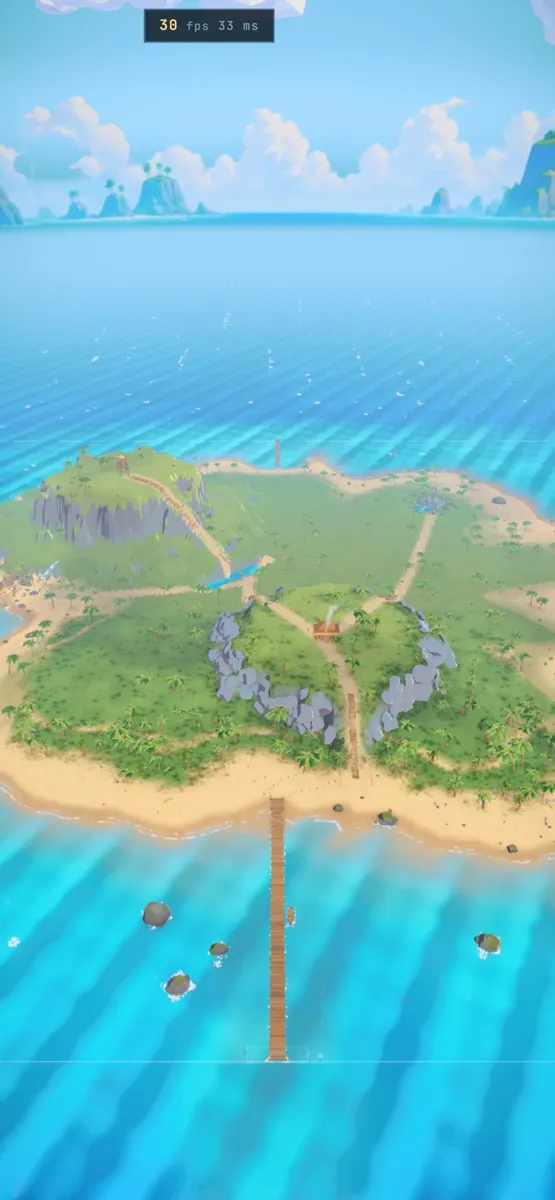
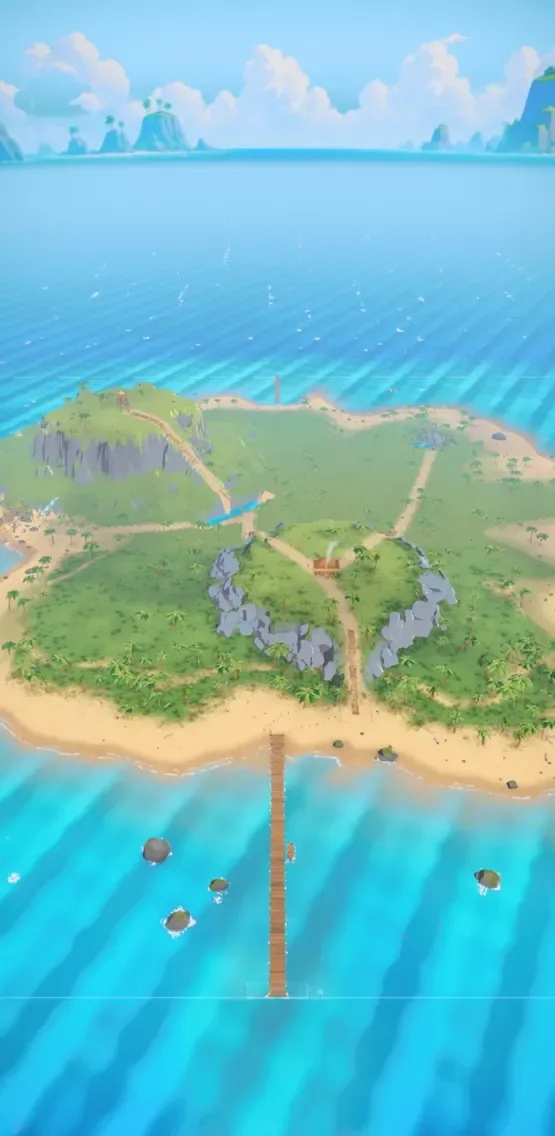
fix(site): share card says any coding agent
MS33's last two items (E473, G332): og.jpg re-lettered 'Build it
with Claude or any coding agent' in the site font, over the same
in-engine Sky Reach; the journey's Driftwood aerial trimmed of its
fps readout.

Claude-Session: https://claude.ai/code/session_01WDQS4KJMspuEQ6kHGSrLAg

Assisted-by: Claude Code:claude-opus-5-5

diff --git a/docs/plans/MARKETING-SITE.md b/docs/plans/MARKETING-SITE.md
@@ -123,7 +123,7 @@ wildshard`), the door becomes *install the skill*; when the API exists, *request
 | MS30 | ✅ **/build: what building a shard is like** (2026-10-10; 10.1 phone screens: an example session, the six steps in full, Thin Ice's five stages, the template's folders, five budgets, the tools as in use / draft / next, ending at the waitlist) (saga 2) — the six steps in full; Thin Ice's whole five-stage chain (line, pitch, style, map, first-person view) that the home page cut to two; the template shard; "Claude or any coding agent", with Opus 5.5 best today; budgets and validation in plain words; shards that grow (co-edit, renovate, title travels with you); founding authors and the claim map, ending at the waitlist | the page live, phone and desktop | marketing-site agent |
 | MS31 | ✅ **/mmo: how the MMO works, for the curious and for authors** (2026-10-10; 10.4 phone screens: the four-card pipeline, the shardfile and its json, budgets first, the sandbox, the 3 × 3 grid to scale in SVG, four layers, multiplayer as planned, ownership, the honest road; every block names its sources in a COPY.md note) (saga 3) — the shardfile from `docs/SHARDFILE.md` and `docs/api/SHARDFILE.md` (the full `shard.json`, what a package holds and never holds, budget-first admission, the script sandbox), the grid (500 m cells, seams, seamless travel), the engine and the SDK layers, ownership and pricing (MMO-REQUIREMENTS O9 / O10), server authority and multiplayer as planned, and the honest road (each plan's state) | the page live; every claim traced to a doc or the code | marketing-site agent |
 | MS32 | ✅ **One site, four pages** (2026-10-10) — a shared top bar on every page (Play · Build · The MMO · Press, Play now ↗), a "More →" link from each home section to its page, the footer links, the sitemap; the build checks every page's copy as it does today | the four pages linked both ways, live | marketing-site agent |
-| MS33 | ◐ **Image-model pictures say so** (SHARD-PLATFORM G332; Jake 2026-10-11: *"We actually want to remove as much mockups and gpt image ai slop from the game lol also from the marketing website"*, then on the site: *"they just need a little banner inside the image that's like a GPT mockup. Just GPT mockup is enough"*) — ✅ all 14 image-model pictures (the grid and frontier paintings, the six coming worlds, Thin Ice's four, journey 6) carry a small see-through "GPT mockup" banner inside the picture, one COPY entry (`Mockup · tag`); ⬜ `hero-driftwood-aerial` (journey 7) recaptured without its fps readout; ⬜ `og.jpg` re-lettered ("Build it with Claude or any coding agent") | every image-model picture labelled in the picture; every picture of the game a capture | marketing-site agent |
+| MS33 | ✅ **Image-model pictures say so** (SHARD-PLATFORM G332; Jake 2026-10-11: *"We actually want to remove as much mockups and gpt image ai slop from the game lol also from the marketing website"*, then on the site: *"they just need a little banner inside the image that's like a GPT mockup. Just GPT mockup is enough"*) — ✅ all 14 image-model pictures (the grid and frontier paintings, the six coming worlds, Thin Ice's four, journey 6) carry a small see-through "GPT mockup" banner inside the picture, one COPY entry (`Mockup · tag`); ✅ `hero-driftwood-aerial` (journey 7) trimmed of its fps readout; ✅ `og.jpg` re-lettered in the site font ("Build it with Claude or any coding agent"), its in-engine Sky Reach kept | every image-model picture labelled in the picture; every picture of the game a capture | marketing-site agent |
 
 ## 5. Not in this plan
 
